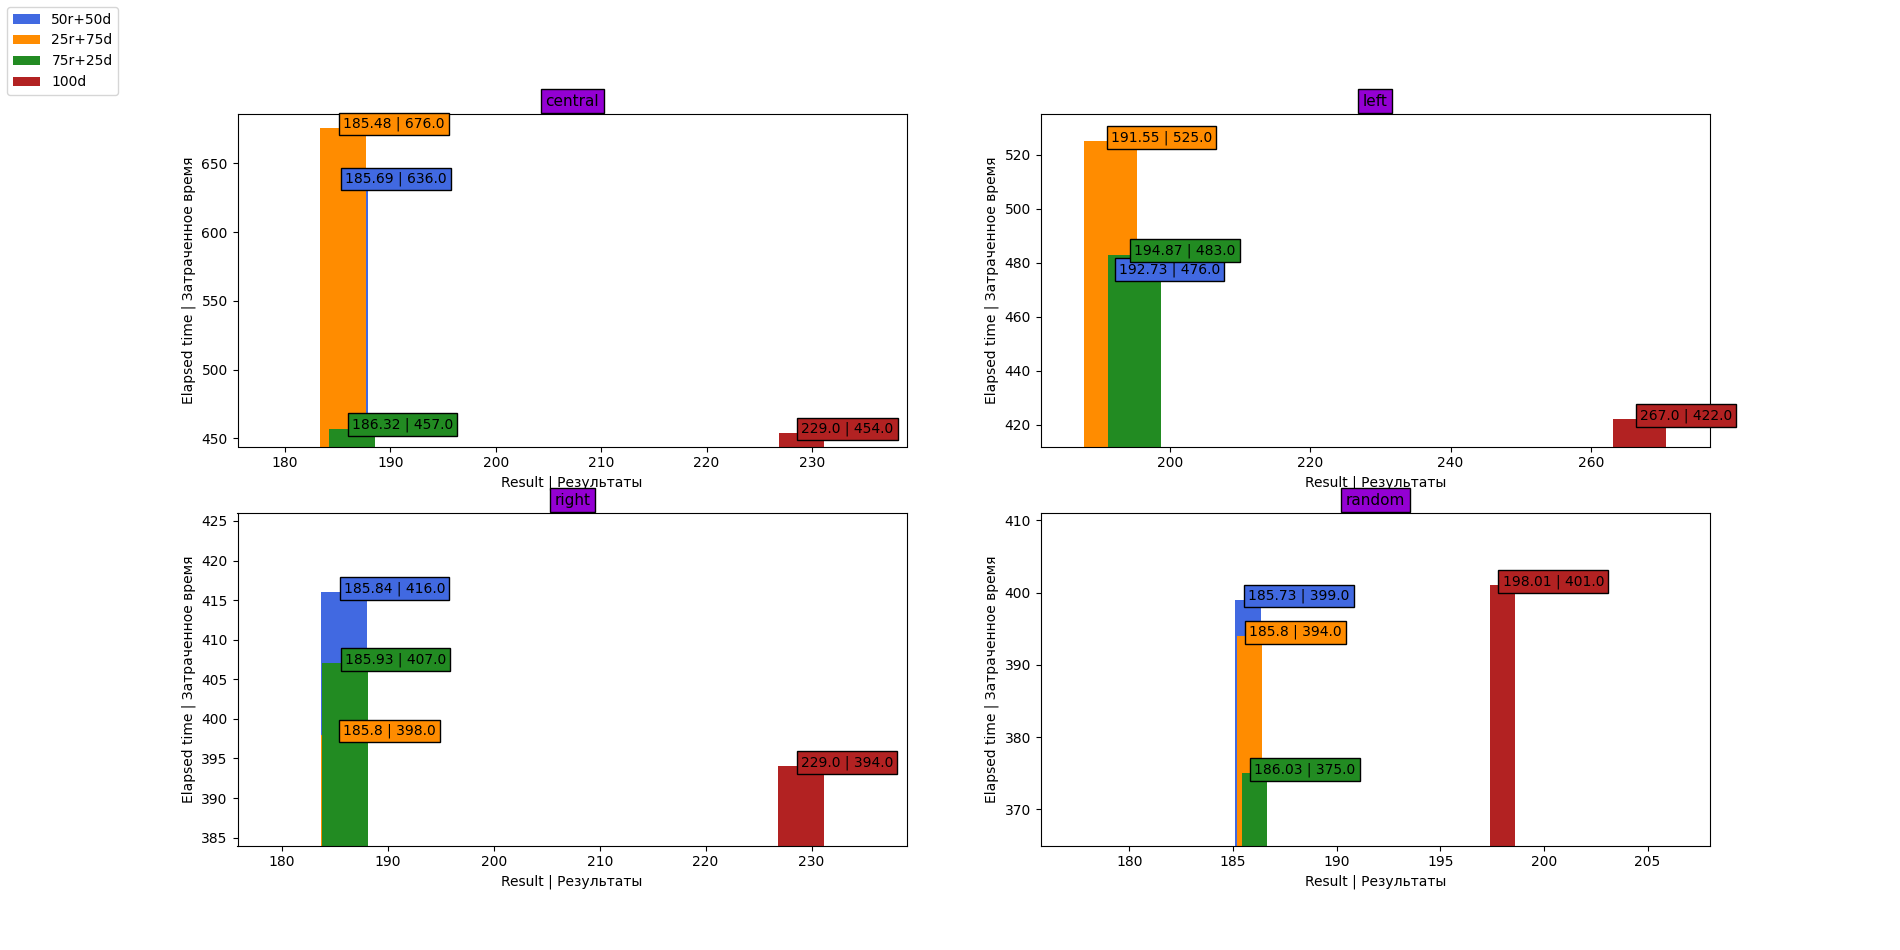
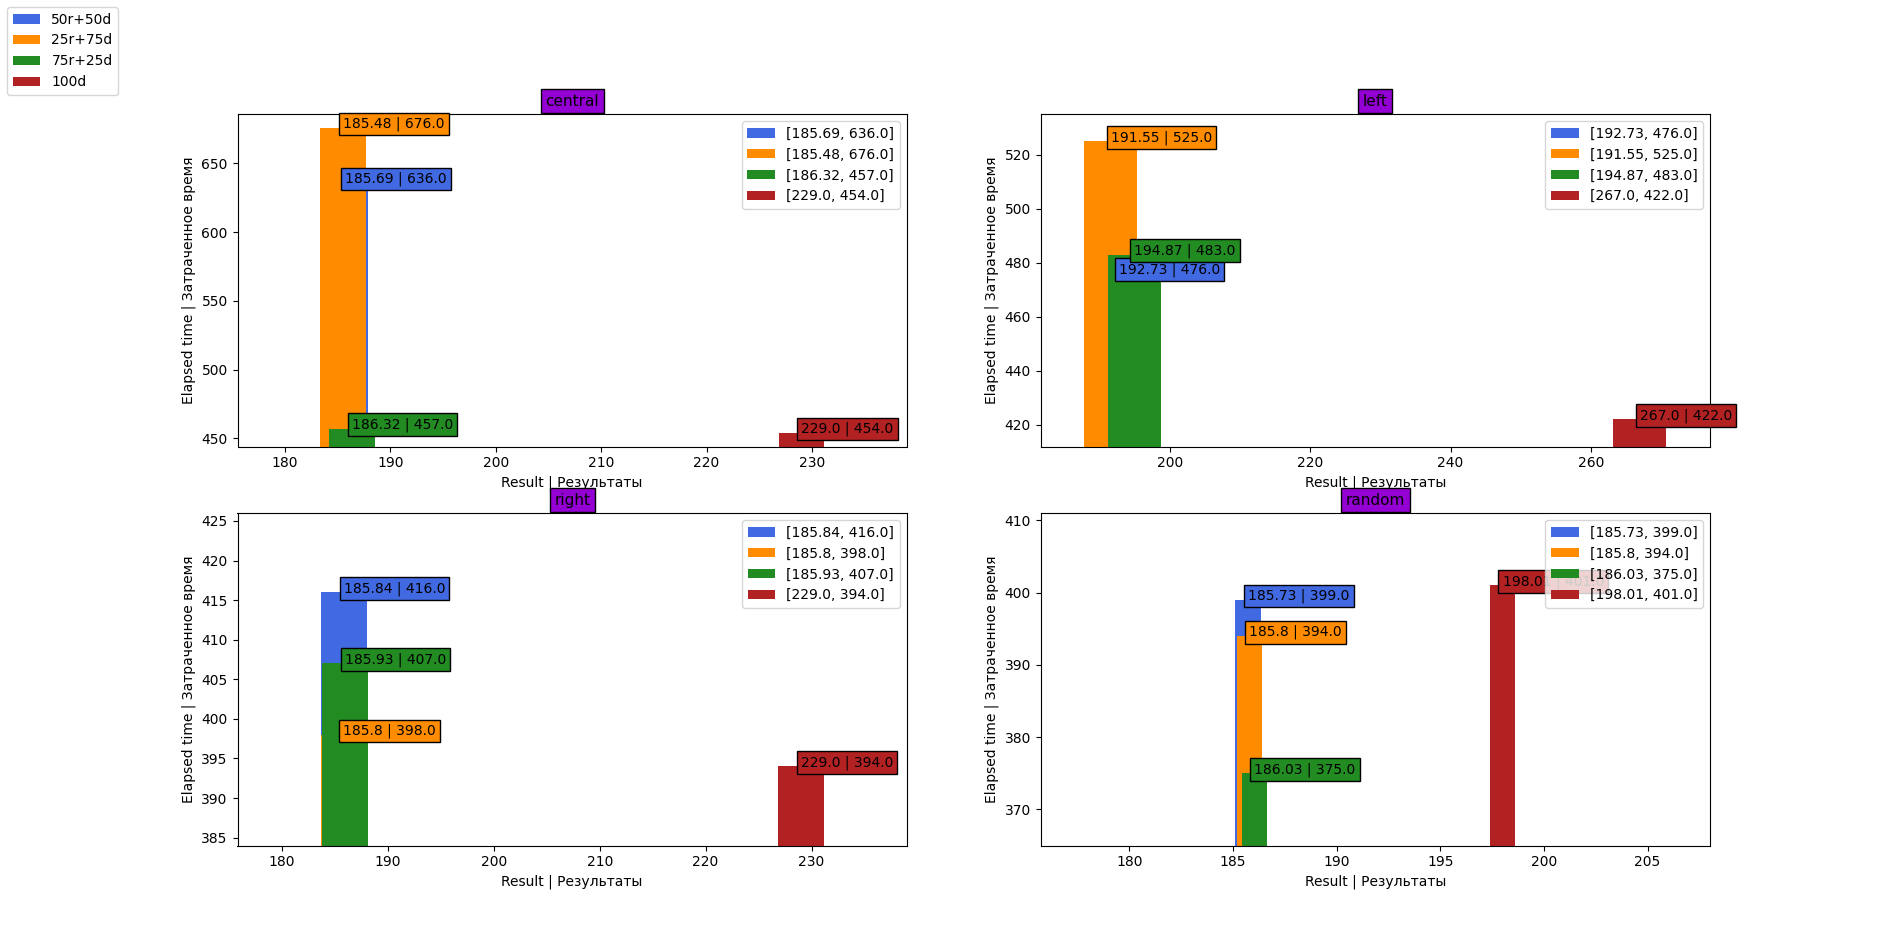
update

diff --git a/diploma/experiments/summary_results.py b/diploma/experiments/summary_results.py
@@ -66,6 +66,8 @@ for bound in bounds:
     axes_dict[bound].set_ylabel('Elapsed time | Затраченное время')
     axes_dict[bound].set_xlim(right=max([elem[0] for elem in methods_data]) + 10, left=min([elem[0] for elem in methods_data]) - 10)  # 0.05
     axes_dict[bound].set_ylim(bottom=min([elem[1] for elem in methods_data]) - 10, top=max([elem[1] for elem in methods_data]) + 10)
+    h, l = axes_dict[bound].get_legend_handles_labels()
+    axes_dict[bound].legend(handles=h, labels=methods_data)
 
     axes_dict1[bound].set_title(
         f'{bound}',
@@ -91,6 +93,8 @@ for bound in bounds:
                               left=min([elem[0] for elem in genes_data]) - 10)  # 0.05
     axes_dict1[bound].set_ylim(bottom=min([elem[1] for elem in genes_data]) - 10,
                               top=max([elem[1] for elem in genes_data]) + 10)
+    h1, l1 = axes_dict1[bound].get_legend_handles_labels()
+    axes_dict1[bound].legend(handles=h1, labels=genes_data)
     print(methods_data, genes_data)
 h, l = axes[0][0].get_legend_handles_labels()
 h1, l1 = axes1[0][0].get_legend_handles_labels()
